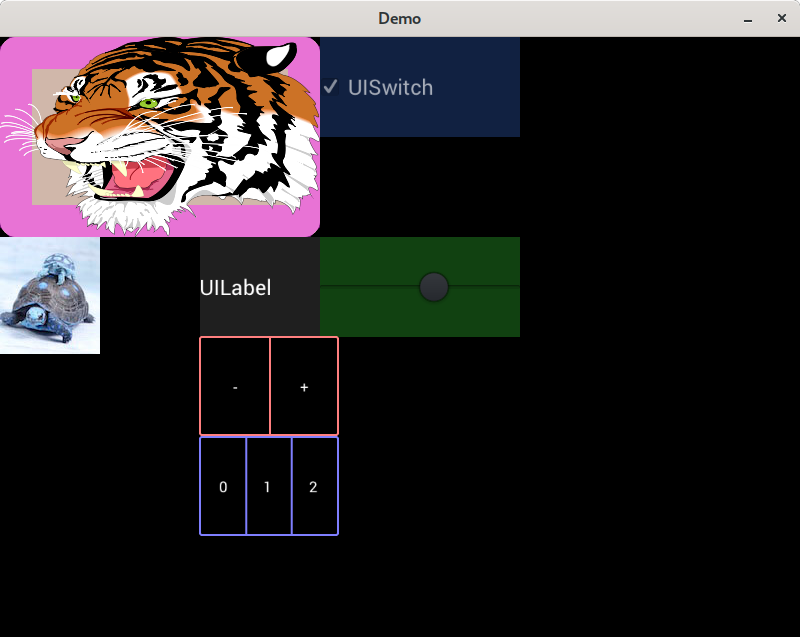
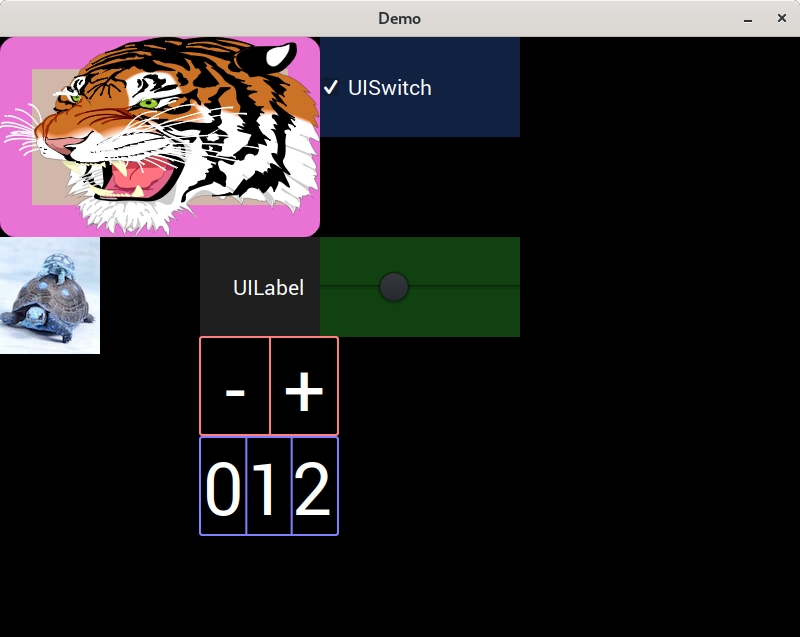
Use FontPixelSize everywhere now. Will use FontSizePoints later on possibly.

diff --git a/src/main.m b/src/main.m
@@ -63,17 +63,7 @@ static UIEvent   *scroll_callback( UIButton *button, UIEvent *event)
 
 
 // scale stuff for stream
-#define SCALE            1.0
-
-//
-// Anonymous Pro:
-// get mono font at <= 13 from freetype
-// get LCD font (cleartype) at >=14 from freetype
-//
-// Roboto:
-// get LCD font (cleartype) at any size from freetype
-//
-#define FONT_PIXEL_SIZE  8.0
+#define SCALE     2.0
 
 int   main()
 {
@@ -104,8 +94,48 @@ int   main()
    UISwitch             *checkbox;
    UISlider             *slider;
 
+   tigerSVGImage = [[[MulleSVGImage alloc] initWithBytes:svginput
+                                          length:strlen( svginput) + 1] autorelease];
+   fprintf( stderr, "tigerSVGImage: %p\n", tigerSVGImage);
+
+   tigerLayer = [[[MulleSVGLayer alloc] initWithSVGImage:tigerSVGImage] autorelease];
+   [tigerLayer setCStringName:"tiger"];
+   fprintf( stderr, "layer: %p\n", tigerLayer);
+
+
+   // layer = [[[CALayer alloc] init] autorelease];
+
+   frame.origin       = CGPointMake( 0.0 * SCALE, 0.0 * SCALE);
+   frame.size.width   = 160 * SCALE;
+   frame.size.height  = 100 * SCALE;
+
+   [tigerLayer setFrame:frame];
+ //  [layer setBounds:CGRectMake( 0.0, 0.0, 200, 30)];
+   [tigerLayer setBackgroundColor:getNVGColor( 0xFFE0D0D0)];
+   [tigerLayer setBorderColor:getNVGColor( 0xFF30FF80)];
+   [tigerLayer setBorderWidth:32.0f];
+   [tigerLayer setCornerRadius:16.0f];
+
+   viechBitmap = [[[MulleBitmapImage alloc] initWithConstBytes:viech_bitmap
+                                                    bitmapSize:viech_bitmap_size]
+                                                       autorelease];
+   fprintf( stderr, "viechBitmap: %p\n", viechBitmap);
+
+   turtleBitmap = [[[MulleBitmapImage alloc] initWithConstBytes:turtle_bitmap
+                                                     bitmapSize:turtle_bitmap_size]
+                                                  autorelease];
+   fprintf( stderr, "turtleBitmapImage: %p\n", turtleBitmap);
+
+   turtleLayer = [[[MulleBitmapLayer alloc] initWithBitmapImage:turtleBitmap] autorelease];
+   [turtleLayer setCStringName:"turtle"];
+   frame.origin = CGPointMake( 0.0 * SCALE, 100.0  * SCALE);
+   frame.size.width  = turtle_bitmap_size.size.width;
+   frame.size.height = turtle_bitmap_size.size.height;
+   [turtleLayer setFrame:frame];
+   fprintf( stderr, "layer: %p\n", turtleLayer);
+
    /*
-    * window and app
+    * window and app 
     */
    window  = [[[UIWindow alloc] initWithFrame:CGRectMake( 0.0, 0.0, 400.0 * SCALE, 300.0 * SCALE)] autorelease];
    assert( window);
@@ -114,46 +144,87 @@ int   main()
 
    context = [CGContext new];
 
-   frame.origin      = CGPointMake( 100.0 * SCALE, 100.0 * SCALE);
+   /*
+    * view placement in window 
+    */
+   view = [[[UIView alloc] initWithLayer:tigerLayer] autorelease];
+   [window addSubview:view];
+
+
+   nestedButton = [[[UIButton alloc] initWithLayer:turtleLayer] autorelease];
+   [nestedButton setBackgroundImage:turtleBitmap
+                           forState:UIControlStateNormal];
+   [nestedButton setBackgroundImage:viechBitmap
+                           forState:UIControlStateSelected];
+
+   // [insideButton setClipsSubviews:YES];
+   [nestedButton setClick:button_callback];
+   [window addSubview:nestedButton];
+
+   frame.origin      = CGPointMake( turtle_bitmap_size.size.width * SCALE, 100.0 * SCALE);
+   frame.size.width  = 140;
+   frame.size.height = 100;
+
+   label = [[[UILabel alloc] initWithFrame:frame] autorelease];
+
+   // [insideButton setClipsSubviews:YES];
+   [label setCString:"UILabel"];
+   [label setFontName:"sans"];
+   [label setFontPixelSize:14.0 * SCALE];
+   [label setBackgroundColor:getNVGColor( 0x1F1F1FFF)];
+   [label setTextColor:getNVGColor( 0xFEFEFEFF)];
+
+   [window addSubview:label];
+
+   frame.origin      = CGPointMake( 160.0 * SCALE , 0 * SCALE);
    frame.size.width  = 200;
-   frame.size.height = FONT_PIXEL_SIZE + 2.0;
+   frame.size.height = 100;
 
-   label = [[[UILabel alloc] initWithFrame:frame] autorelease];
-
-   // [insideButton setClipsSubviews:YES];
-   [label setCString:"|XYZ|"];
-   [label setFontName:"sans"];
-   [label setFontPixelSize:FONT_PIXEL_SIZE];
-   [label setBackgroundColor:getNVGColor( 0x8FFF8FFF)];
-   [label setTextColor:getNVGColor( 0x000000FF)];
-
-   [window addSubview:label];
-
-   frame.origin.y    += frame.size.height + 1;
-
-   label = [[[UILabel alloc] initWithFrame:frame] autorelease];
+   checkbox = [[[UISwitch alloc] initWithFrame:frame] autorelease];
 
    // [insideButton setClipsSubviews:YES];
-   [label setCString:"°xyz\""];
-   [label setFontName:"sans"];
-   [label setFontPixelSize:FONT_PIXEL_SIZE];
-   [label setBackgroundColor:getNVGColor( 0xFFFFFFFF)];
-   [label setTextColor:getNVGColor( 0x000000FF)];
+   [checkbox setCString:"UISwitch"];
+   [checkbox setFontName:"sans"];
+   [checkbox setFontPixelSize:14.0 * SCALE];
+   [checkbox setBackgroundColor:getNVGColor( 0x112141FF)];
+   [checkbox setTextColor:getNVGColor( 0xFE00FEFF)];
 
-   [window addSubview:label];
+   [window addSubview:checkbox];
 
-   frame.origin.y    += frame.size.height + 1;
+   frame.origin      = CGPointMake( 160.0 * SCALE , 100.0 * SCALE);
+   frame.size.width  = 200;
+   frame.size.height = 100;
 
-   label = [[[UILabel alloc] initWithFrame:frame] autorelease];
+   slider = [[[UISlider alloc] initWithFrame:frame] autorelease];
 
    // [insideButton setClipsSubviews:YES];
-   [label setCString:"°1_~'"];
-   [label setFontName:"sans"];
-   [label setFontPixelSize:FONT_PIXEL_SIZE];
-   [label setBackgroundColor:getNVGColor( 0x8F8FFFFF)];
-   [label setTextColor:getNVGColor( 0x000000FF)];
+   [slider setBackgroundColor:getNVGColor( 0x114111FF)];
 
-   [window addSubview:label];
+   [window addSubview:slider];
+
+   frame           = [label frame];
+   frame.origin.y += frame.size.height;
+
+   stepper = [[[UIStepper alloc] initWithFrame:frame] autorelease];
+
+   // [insideButton setClipsSubviews:YES];
+   [window addSubview:stepper];
+
+
+   frame.origin.y += frame.size.height;
+
+   segmentedControl = [[[UISegmentedControl alloc] initWithFrame:frame] autorelease];
+   [segmentedControl insertSegmentWithCString:"1" 
+                                     atIndex:0 
+                                    animated:NO];  
+   [segmentedControl insertSegmentWithCString:"0" 
+                                     atIndex:0 
+                                    animated:NO];  
+   [segmentedControl insertSegmentWithCString:"2" 
+                                     atIndex:2
+                                    animated:NO];   
+   [window addSubview:segmentedControl];
+
 
    [window dump];
    [window renderLoopWithContext:context];

diff --git a/src/MulleCheckboxLayer.m b/src/MulleCheckboxLayer.m
@@ -37,7 +37,7 @@ static char  *cpToUTF8(int cp, char* str)
 
 - (void) drawContentsInContext:(CGContext *) context
 {
-   CGFloat             fontSize;
+   CGFloat             fontPixelSize;
    CGFont              *font;
    CGRect              frame;
    char                *name;
@@ -48,16 +48,16 @@ static char  *cpToUTF8(int cp, char* str)
    font = [context fontWithName:_fontName ? _fontName : "sans"];
    name = [font name];  // get actual name, which could have different address
 
-   fontSize = [self fontSize];
-   if( fontSize == 0.0)
-      fontSize = 10.0;
+   frame    = [self frame];
+
+   fontPixelSize = [self fontPixelSize];
+   if( fontPixelSize == 0.0)
+      fontPixelSize = frame.size.height;
 
    vg     = [context nvgContext];
-	nvgFontSize( vg, fontSize);
+	nvgFontSize( vg, fontPixelSize);
 	nvgFontFace( vg, name);
-   nvgFillColor(vg, nvgRGBA(255, 255, 255, 160));
-
-   frame = [self frame];
+   nvgTextColor( vg, nvgRGBA(255,255,255,255), [self backgroundColor]); // TODO: use textColor
    nvgTextAlign(vg, NVG_ALIGN_LEFT | NVG_ALIGN_MIDDLE);
    nvgText(vg, frame.origin.x + 28, frame.origin.y + frame.size.height * 0.5f, _cString, NULL);
 
@@ -74,7 +74,7 @@ static char  *cpToUTF8(int cp, char* str)
 
       nvgFontSize(vg, 40);
       nvgFontFace(vg, name);
-      nvgFillColor(vg, nvgRGBA(255, 255, 255, 128));
+      nvgTextColor( vg, nvgRGBA(255,255,255,255), [self backgroundColor]); // TODO: use textColor
       nvgTextAlign(vg, NVG_ALIGN_CENTER | NVG_ALIGN_MIDDLE);
       nvgText(vg, frame.origin.x + 9 + 2, frame.origin.y + frame.size.height * 0.5f, cpToUTF8(ICON_CHECK, icon), NULL);
    }

diff --git a/src/MulleStepperLayer.m b/src/MulleStepperLayer.m
@@ -9,7 +9,7 @@
 
 - (void) drawContentsInContext:(CGContext *) context
 {
-   CGFloat             fontSize;
+   CGFloat             fontPixelSize;
    CGFloat             midX;
    CGFloat             strokeWidth;
    CGFont              *font;
@@ -53,13 +53,13 @@
    font = [context fontWithName:_fontName ? _fontName : "sans"];
    name = [font name];  // get actual name, which could have different address
 
-   fontSize = [self fontSize];
-   if( fontSize == 0.0)
-      fontSize = 20.0;
+   fontPixelSize = [self fontPixelSize];
+   if( fontPixelSize == 0.0)
+      fontPixelSize = frame.size.height;
 
-	nvgFontSize( vg, fontSize);
+	nvgFontSize( vg, fontPixelSize);
 	nvgFontFace( vg, name);
-	nvgFillColor( vg, nvgRGBA(255,255,255,255)); // TODO: use textColor
+   nvgTextColor( vg, nvgRGBA(255,255,255,255), [self backgroundColor]); // TODO: use textColor
 
 	nvgTextAlign( vg,NVG_ALIGN_CENTER|NVG_ALIGN_MIDDLE);
 	nvgText( vg, frame1.origin.x + frame1.size.width / 2.0, frame1.origin.y + frame1.size.height *0.5f, "-", NULL);

diff --git a/src/MulleSegmentedControlLayer.m b/src/MulleSegmentedControlLayer.m
@@ -60,7 +60,7 @@
 
 - (void) drawContentsInContext:(CGContext *) context
 {
-   CGFloat             fontSize;
+   CGFloat             fontPixelSize;
    CGFloat             midX;
    CGFloat             strokeWidth;
    CGFont              *font;
@@ -111,13 +111,13 @@
    font = [context fontWithName:_fontName ? _fontName : "sans"];
    name = [font name];  // get actual name, which could have different address
 
-   fontSize = [self fontSize];
-   if( fontSize == 0.0)
-      fontSize = 20.0;
+   fontPixelSize = [self fontPixelSize];
+   if( fontPixelSize == 0.0)
+      fontPixelSize = innerFrame.size.height;
 
-	nvgFontSize( vg, fontSize);
+	nvgFontSize( vg, fontPixelSize);
 	nvgFontFace( vg, name);
-	nvgFillColor( vg, nvgRGBA(255,255,255,255)); // TODO: use textColor
+   nvgTextColor( vg, nvgRGBA(255,255,255,255), [self backgroundColor]); // TODO: use textColor
    nvgTextAlign( vg,NVG_ALIGN_CENTER|NVG_ALIGN_MIDDLE);
 
    segmentFrame = innerFrame;

diff --git a/src/MulleTextLayer.m b/src/MulleTextLayer.m
@@ -37,6 +37,9 @@
  * By experiment, if running cleartype it makes no use to turn of cleartype
  * for monochrome or grayscale only fonts.
  *
+ * Since emojis could be used from a fallback font, it maybe necessary to 
+ * split the string for multiple nvgText calls, setting the correct font
+ * everytime.
  */
 
 - (void) drawContentsInContext:(CGContext *) context

diff --git a/src/UISwitch.h b/src/UISwitch.h
@@ -14,8 +14,8 @@
 - (void)setCString:(char *)s;
 - (char *) fontName;
 - (void) setFontName:(char *)s;
-- (CGFloat) fontSize;
-- (void) setFontSize:(CGFloat)s;
+- (CGFloat) fontPixelSize;
+- (void) setFontPixelSize:(CGFloat)s;
 
 - (void) setBackgroundColor:(CGColorRef)color;
 - (CGColorRef) backgroundColor;

diff --git a/src/MulleCheckboxLayer.h b/src/MulleCheckboxLayer.h
@@ -3,7 +3,7 @@
 @interface MulleCheckboxLayer : CALayer
 
 @property(assign) char *fontName;
-@property(assign) CGFloat fontSize;
+@property(assign) CGFloat fontPixelSize;
 @property(assign) char *cString;
 @property CGColorRef textColor;
 @property( assign, setter=setChecked:) BOOL isChecked;

diff --git a/src/MulleStepperLayer.h b/src/MulleStepperLayer.h
@@ -4,7 +4,7 @@
 @interface MulleStepperLayer : CALayer 
 
 @property( assign) char     *fontName;
-@property( assign) CGFloat  fontSize;
+@property( assign) CGFloat  fontPixelSize;
 @property( assign) char     *cString;
 @property CGColorRef        textColor;
 

diff --git a/src/MulleSegmentedControlLayer.h b/src/MulleSegmentedControlLayer.h
@@ -15,7 +15,7 @@
 }
 
 @property( assign) char     *fontName;
-@property( assign) CGFloat  fontSize;
+@property( assign) CGFloat  fontPixelSize;
 @property CGColorRef        textColor;
 
 - (NSUInteger) numberOfSegments;

diff --git a/src/CGContext.m b/src/CGContext.m
@@ -7,7 +7,7 @@
 #import "CGFont.h"
 
 
-#define USE_ANONYMOUS_PRO
+// #define USE_ANONYMOUS_PRO
 
 
 #ifdef USE_ANONYMOUS_PRO

diff --git a/README.md b/README.md
@@ -2,6 +2,10 @@
 
 ![screeny.png](screeny.png)
 
+## Controls-Cleartype Branch Progress
+
+* 17.7.2019: Use cleartype code for drawing text. Noticably sharper now.
+
 
 ## Controls Branch Progress
 
